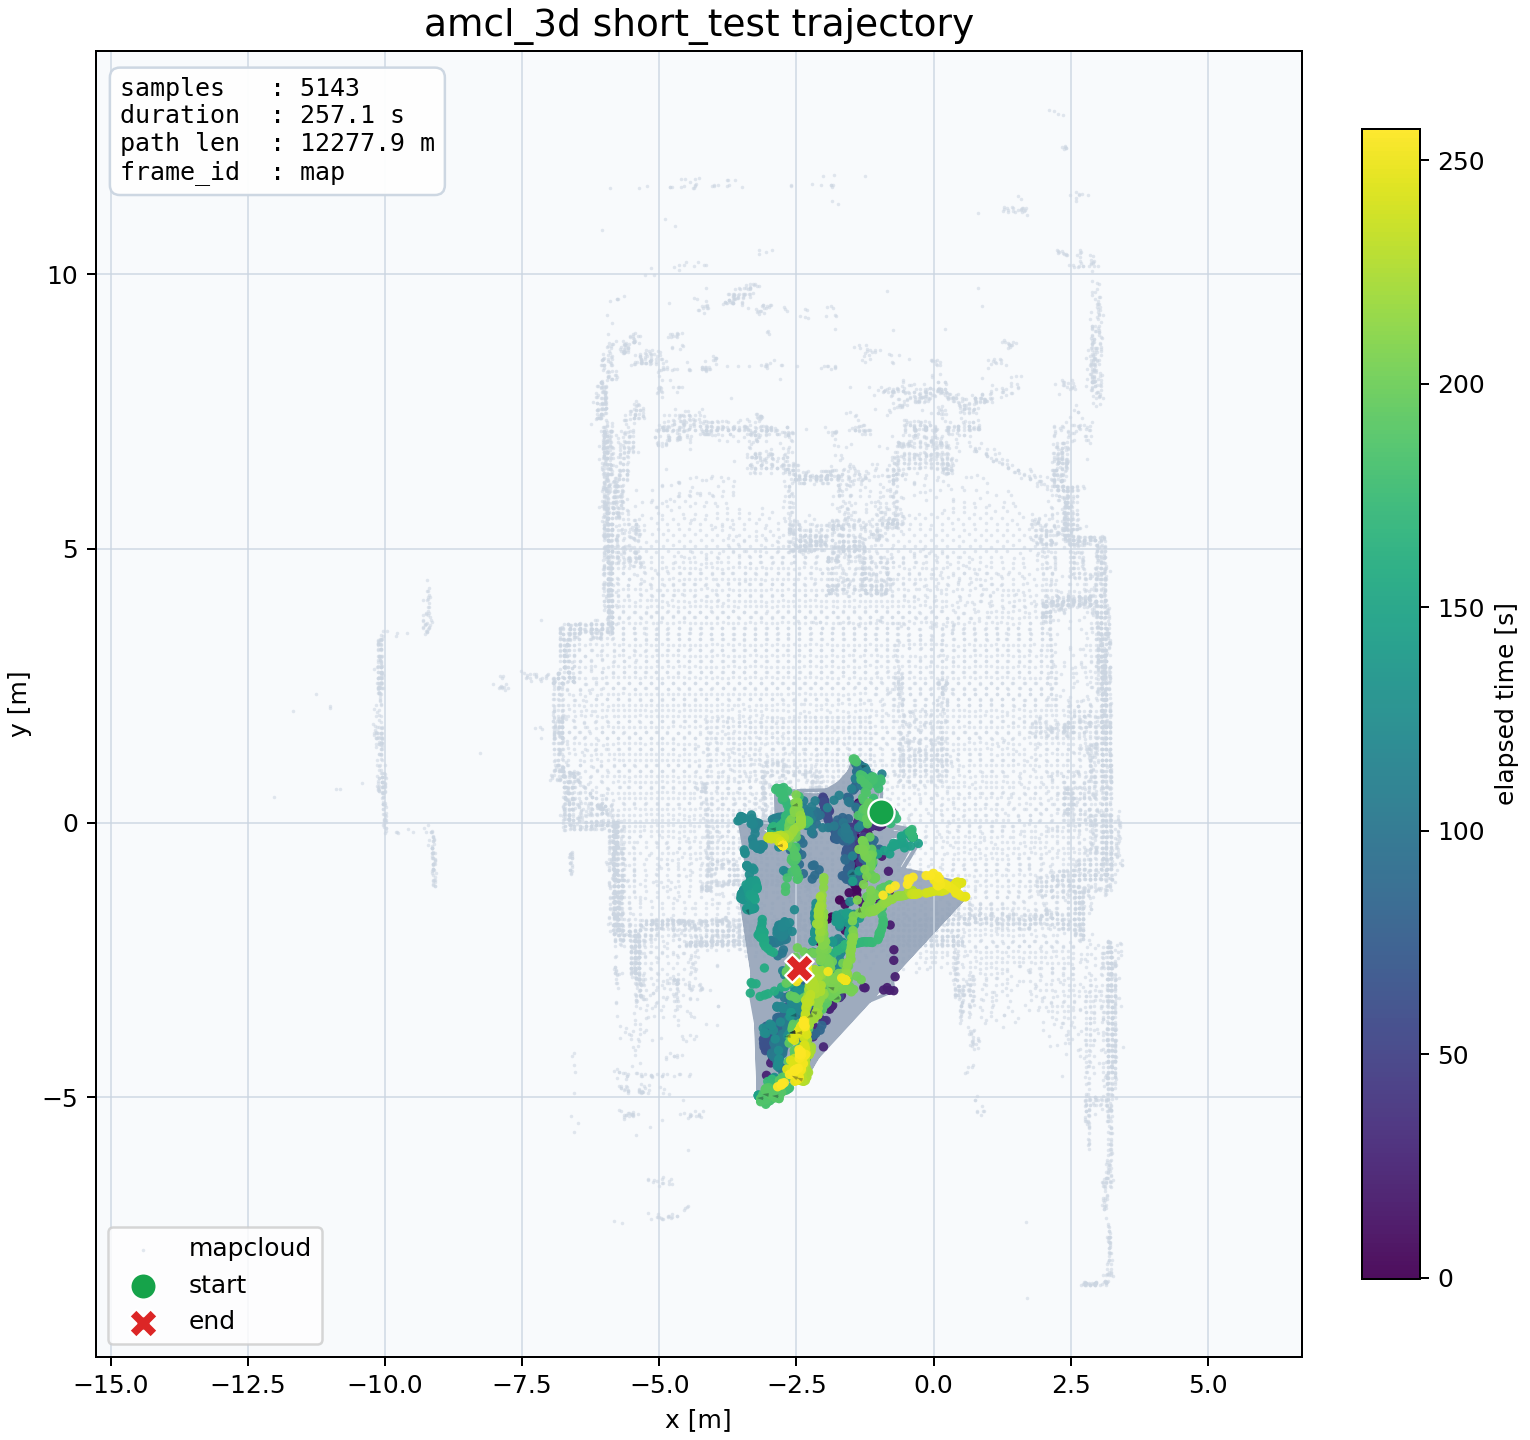
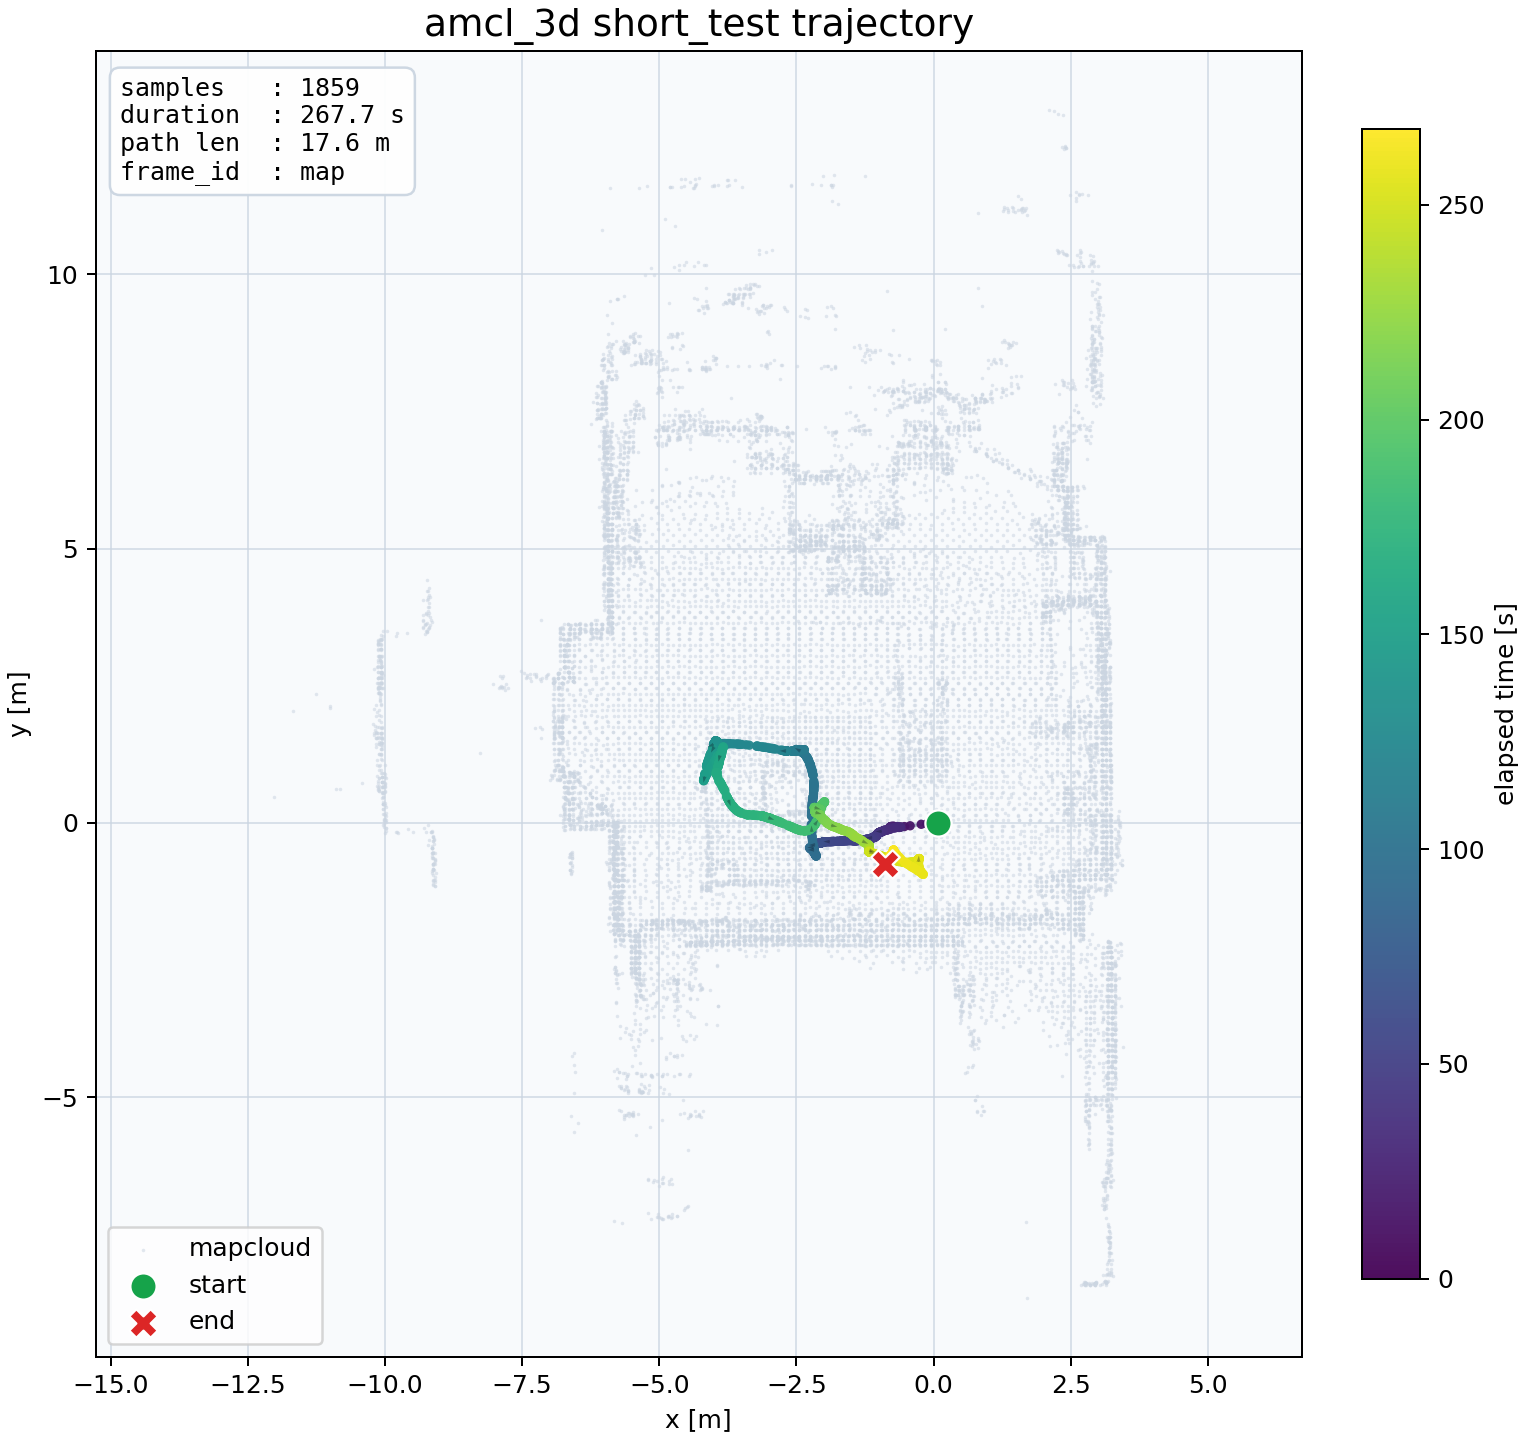
Stabilize short test localization

diff --git a/src/amcl_3d/src/node.cpp b/src/amcl_3d/src/node.cpp
@@ -58,6 +58,7 @@ rclcpp::Time stampOrZero(const builtin_interfaces::msg::Time & stamp, const rclc
   }
   return rclcpp::Time(stamp);
 }
+
 } // namespace
 
 class Amcl3dNode : public rclcpp::Node
@@ -85,7 +86,9 @@ private:
   std::string map_frame_id_;
   std::string base_link_frame_id_;
   std::string odom_frame_id_;
+  std::string pc2_frame_id_filter_;
   std::shared_ptr<FooPredictionModelNode> prediction_model_node_;
+  Time last_pc2_time_;
 };
 
 Amcl3dNode::Amcl3dNode() : rclcpp::Node("amcl_3d")
@@ -159,6 +162,7 @@ Amcl3dNode::Amcl3dNode() : rclcpp::Node("amcl_3d")
   map_frame_id_ = this->declare_parameter<std::string>("map_frame_id", "map");
   base_link_frame_id_ = this->declare_parameter<std::string>("base_link_frame_id", "base_link");
   odom_frame_id_ = this->declare_parameter<std::string>("odom_frame_id", "odom");
+  pc2_frame_id_filter_ = sanitizeFrameId(this->declare_parameter<std::string>("pc2_frame_id_filter", ""));
   const double publish_rate = this->declare_parameter<double>("publish_rate", 10.0);
   if (publish_rate <= 0.0)
   {
@@ -272,27 +276,36 @@ void Amcl3dNode::initialPoseCallback(
       covariance(4, 4) == 0.0 && covariance(5, 5) == 0.0)
   {
     RCLCPP_WARN(this->get_logger(), "covariance is all zeros; applying fallback defaults");
-    covariance(0, 0) = 0.5;
-    covariance(1, 1) = 0.5;
-    covariance(2, 2) = 0.5;
-    covariance(3, 3) = 0.1;
-    covariance(4, 4) = 0.1;
-    covariance(5, 5) = 0.1;
+    covariance(0, 0) = 0.1;
+    covariance(1, 1) = 0.1;
+    covariance(2, 2) = 0.1;
+    covariance(3, 3) = 0.05;
+    covariance(4, 4) = 0.05;
+    covariance(5, 5) = 0.05;
   }
 
   if (!amcl_->setInitialPose(position, quat, covariance))
   {
     RCLCPP_ERROR(this->get_logger(), "failed to set initial pose");
   }
+  last_pc2_time_ = Time();
 }
 
 void Amcl3dNode::pc2Callback(const sensor_msgs::msg::PointCloud2::ConstSharedPtr input_pc2_msg)
 {
   auto ros_pc2 = input_pc2_msg;
-  const Time measurement_time = stampOrNow(ros_pc2->header.stamp, *this);
-  amcl_->predict(prediction_model_node_->getPredictionModel(), Time::fromRclcppTime(this->get_clock()->now()));
-
   const std::string source_frame_id = sanitizeFrameId(ros_pc2->header.frame_id);
+  if (!pc2_frame_id_filter_.empty() && source_frame_id != pc2_frame_id_filter_)
+  {
+    return;
+  }
+
+  const Time measurement_time = stampOrNow(ros_pc2->header.stamp, *this);
+  if (!last_pc2_time_.isZero() && Time::getDiff(last_pc2_time_, measurement_time) <= 0.0)
+  {
+    return;
+  }
+
   if (source_frame_id != base_link_frame_id_)
   {
     try
@@ -315,13 +328,17 @@ void Amcl3dNode::pc2Callback(const sensor_msgs::msg::PointCloud2::ConstSharedPtr
 
   auto pc_measurement = std::make_shared<pcl::PointCloud<pcl::PointXYZ>>();
   pcl::fromROSMsg(*ros_pc2, *pc_measurement);
-  amcl_->measureLidar(measurement_time, pc_measurement);
+  amcl_->predict(prediction_model_node_->getPredictionModel(), measurement_time);
+  if (!amcl_->measureLidar(measurement_time, pc_measurement))
+  {
+    return;
+  }
+  last_pc2_time_ = measurement_time;
 }
 
 void Amcl3dNode::publishTimerCallback()
 {
   const rclcpp::Time current_time = this->get_clock()->now();
-  amcl_->predict(prediction_model_node_->getPredictionModel(), Time::fromRclcppTime(current_time));
 
   geometry_msgs::msg::PoseArray output_particle_msg;
   output_particle_msg.header.stamp = current_time;

diff --git a/src/amcl_3d/src/measurement_model/lidar_measurement_model.cpp b/src/amcl_3d/src/measurement_model/lidar_measurement_model.cpp
@@ -33,7 +33,7 @@ bool LidarMeasurementModel::measure(std::shared_ptr<const Particles> mesurement_
     v_log_likelihood.reserve(particles_ptr->size());
     const double max_squared_dist = max_dist_ * max_dist_; // [m^2]
     const double denominator = 2 * sigma_ * sigma_;
-    const double distance_penelty = 0.2;
+    const double sample_count = static_cast<double>(v_random_sample_index_.size());
     for (const auto &state : *mesurement_point_particles_ptr)
     {
         /*
@@ -71,10 +71,11 @@ bool LidarMeasurementModel::measure(std::shared_ptr<const Particles> mesurement_
                 squared_dist = max_squared_dist;
             }
             // first step : log likelihood += -(x-mu)^2
-            log_likelihood += -1.0 * squared_dist * distance_penelty;
+            log_likelihood += -1.0 * squared_dist;
         }
-        // second step : log likelihood *= 1.0/(2*sigma^2)
-        log_likelihood /= denominator; // denominator = (2*sigma^2)
+        // Average the per-point likelihood contribution so correlated lidar points do not
+        // make the filter overconfident and oscillatory.
+        log_likelihood /= denominator * sample_count;
         // std::cout << " log_likelihood: " << log_likelihood << std::endl;
 
         v_log_likelihood.push_back(log_likelihood);
@@ -98,11 +99,10 @@ bool LidarMeasurementModel::measure(std::shared_ptr<const Particles> mesurement_
         particles_ptr->at(i).weight *= std::exp(v_log_likelihood.at(i) - max_log_likelihood);
     }
     // calc raw weight average for augmented mcl
+    // Use per-point-averaged log-likelihood so values are in a reasonable range
     double weight_sum = 0.0;
     for (size_t i = 0; i < particles_ptr->size(); ++i)
     {
-        // std::cout << "std::exp(v_log_likelihood.at(" << i << "))"
-        //           << ", " << std::exp(v_log_likelihood.at(i)) << std::endl;
         weight_sum += std::exp(v_log_likelihood.at(i));
     }
     measurement_state.raw_weight_avg = weight_sum / (double)particles_ptr->size();
@@ -118,7 +118,7 @@ void LidarMeasurementModel::updateRandomSampleIndexVec(const size_t random_sampl
     {
         return;
     }
-    std::uniform_int_distribution<int> engine(0, limited_random_sample_num - 1);
+    std::uniform_int_distribution<int> engine(0, measurement_ptr_->size() - 1);
     // push measurement point index to vector for random sampling
     for (size_t i = 0; i < limited_random_sample_num; ++i)
     {

diff --git a/src/amcl_3d/src/particle_filter.cpp b/src/amcl_3d/src/particle_filter.cpp
@@ -1,5 +1,9 @@
 #include "amcl_3d/particle_filter.hpp"
 // #include <iostream>
+
+#include <cmath>
+#include <limits>
+
 namespace amcl_3d
 {
 ParticleFilter::ParticleFilter() : particles_ptr_(std::make_shared<Particles>()) {}
@@ -272,6 +276,10 @@ bool ParticleFilter::resample(std::shared_ptr<Particles> new_particles_ptr, cons
 State ParticleFilter::getMMSE()
 {
     State mmse_state;
+    if (particles_ptr_->empty())
+    {
+        return mmse_state;
+    }
     mmse_state.position.x() = 0.0;
     mmse_state.position.y() = 0.0;
     mmse_state.position.z() = 0.0;
@@ -279,6 +287,10 @@ State ParticleFilter::getMMSE()
     for (const auto &particle : *particles_ptr_)
     {
         weight_sum += particle.weight;
+    }
+    if (!std::isfinite(weight_sum) || weight_sum <= std::numeric_limits<double>::min())
+    {
+        return getMAP();
     }
     mmse_state.weight = weight_sum;
     for (const auto &particle : *particles_ptr_)
@@ -320,10 +332,15 @@ State ParticleFilter::getMMSE()
 State ParticleFilter::getMAP()
 {
     State map_state;
-    double max_weight = 0.0;
+    if (particles_ptr_->empty())
+    {
+        return map_state;
+    }
+    map_state = particles_ptr_->front();
+    double max_weight = map_state.weight;
     for (const auto &particle : *particles_ptr_)
     {
-        if (max_weight < particle.weight)
+        if (!std::isfinite(max_weight) || max_weight < particle.weight)
         {
             max_weight = particle.weight;
             map_state = particle;
@@ -380,10 +397,23 @@ void ParticleFilter::normalizeWeight()
 
 void ParticleFilter::normalizeWeight(std::shared_ptr<Particles> particles_ptr)
 {
+    if (particles_ptr == nullptr || particles_ptr->empty())
+    {
+        return;
+    }
     double weight_sum = 0.0;
     for (const auto &particle : *particles_ptr)
     {
         weight_sum += particle.weight;
+    }
+    if (!std::isfinite(weight_sum) || weight_sum <= std::numeric_limits<double>::min())
+    {
+        const double uniform_weight = 1.0 / static_cast<double>(particles_ptr->size());
+        for (auto &particle : *particles_ptr)
+        {
+            particle.weight = uniform_weight;
+        }
+        return;
     }
     for (auto &particle : *particles_ptr)
     {

diff --git a/reports/generate_trajectory.py b/reports/generate_trajectory.py
@@ -166,6 +166,29 @@ def trajectory_arrays(samples: list[PoseSample]) -> tuple[np.ndarray, np.ndarray
     )
 
 
+def angle_diff(a: float, b: float) -> float:
+    return math.atan2(math.sin(a - b), math.cos(a - b))
+
+
+def trim_leading_latched_outlier(samples: list[PoseSample]) -> list[PoseSample]:
+    if len(samples) < 4:
+        return samples
+
+    first = samples[0]
+    second = samples[1]
+    jump_xy = math.hypot(second.x - first.x, second.y - first.y)
+    jump_yaw = abs(angle_diff(second.yaw, first.yaw))
+
+    clustered_tail = samples[1:4]
+    tail_spread = max(math.hypot(sample.x - second.x, sample.y - second.y) for sample in clustered_tail)
+    tail_yaw_spread = max(abs(angle_diff(sample.yaw, second.yaw)) for sample in clustered_tail)
+
+    if (jump_xy > 0.05 or jump_yaw > 0.5) and tail_spread < 0.02 and tail_yaw_spread < 0.1:
+        return samples[1:]
+
+    return samples
+
+
 def compute_path_length(x: np.ndarray, y: np.ndarray) -> float:
     return float(np.sum(np.hypot(np.diff(x), np.diff(y))))
 
@@ -432,7 +455,7 @@ def main() -> int:
     if args.trajectory_output_png is None and args.compare_odom_output_png is None:
         raise ValueError("either --trajectory-output-png or --compare-odom-output-png must be set")
 
-    samples = parse_csv(args.input_csv)
+    samples = trim_leading_latched_outlier(parse_csv(args.input_csv))
 
     # Map loading: --map-pcd-file takes priority, then bag topic (unless --no-bag-map)
     map_points = None

diff --git a/src/amcl_3d/src/prediction_model/foo_prediction_model.cpp b/src/amcl_3d/src/prediction_model/foo_prediction_model.cpp
@@ -1,5 +1,4 @@
 #include "amcl_3d/prediction_model/foo_prediction_model.hpp"
-#include <iostream>
 namespace amcl_3d
 {
 XorShift128 FooPredictionModel::rand_;
@@ -30,9 +29,19 @@ bool FooPredictionModel::predict(State &state, const double dt_sec)
         omega_bias_noise(noise_param_.omega_bias_mean, noise_param_.omega_bias_std);
     double vel = vel_.x() * vel_scale_noise(rand_) + vel_bias_noise(rand_);
     double omega = omega_.z() * omega_scale_noise(rand_) + omega_bias_noise(rand_);
-    const double r = vel / omega;
-    local_position.x() = r * std::sin(omega * dt_sec);
-    local_position.y() = -r * std::cos(omega * dt_sec) + r;
+    constexpr double omega_eps = 1e-6;
+    if (std::abs(omega) < omega_eps)
+    {
+        // straight-line approximation when omega is near zero
+        local_position.x() = vel * dt_sec;
+        local_position.y() = 0.0;
+    }
+    else
+    {
+        const double r = vel / omega;
+        local_position.x() = r * std::sin(omega * dt_sec);
+        local_position.y() = -r * std::cos(omega * dt_sec) + r;
+    }
     local_position.z() = 0.0;
     local_quat = Quat(Eigen::AngleAxisd(0.0, Eigen::Vector3d::UnitX())                // roll
                       * Eigen::AngleAxisd(0.0, Eigen::Vector3d::UnitY())              // pitch

diff --git a/src/amcl_3d/launch/amcl_3d_rosbag.launch.py b/src/amcl_3d/launch/amcl_3d_rosbag.launch.py
@@ -68,6 +68,7 @@ def generate_launch_description():
             DeclareLaunchArgument("map_frame_id", default_value="map"),
             DeclareLaunchArgument("base_link_frame_id", default_value="base_link"),
             DeclareLaunchArgument("odom_frame_id", default_value="odom"),
+            DeclareLaunchArgument("pc2_frame_id_filter", default_value=""),
             DeclareLaunchArgument("publish_rate", default_value="10.0"),
             DeclareLaunchArgument("input_map", default_value="/mapcloud"),
             DeclareLaunchArgument("input_odom", default_value="/odom"),
@@ -95,6 +96,7 @@ def generate_launch_description():
                     "map_frame_id": LaunchConfiguration("map_frame_id"),
                     "base_link_frame_id": LaunchConfiguration("base_link_frame_id"),
                     "odom_frame_id": LaunchConfiguration("odom_frame_id"),
+                    "pc2_frame_id_filter": LaunchConfiguration("pc2_frame_id_filter"),
                     "publish_rate": LaunchConfiguration("publish_rate"),
                     "input_map": LaunchConfiguration("input_map"),
                     "input_odom": LaunchConfiguration("input_odom"),

diff --git a/src/amcl_3d/launch/amcl_3d.launch.py b/src/amcl_3d/launch/amcl_3d.launch.py
@@ -16,6 +16,7 @@ def generate_launch_description():
             DeclareLaunchArgument("map_frame_id", default_value="map"),
             DeclareLaunchArgument("base_link_frame_id", default_value="base_link"),
             DeclareLaunchArgument("odom_frame_id", default_value="odom"),
+            DeclareLaunchArgument("pc2_frame_id_filter", default_value=""),
             DeclareLaunchArgument("publish_rate", default_value="10.0"),
             DeclareLaunchArgument("input_map", default_value="map"),
             DeclareLaunchArgument("input_odom", default_value="odom"),
@@ -34,6 +35,7 @@ def generate_launch_description():
                         "map_frame_id": LaunchConfiguration("map_frame_id"),
                         "base_link_frame_id": LaunchConfiguration("base_link_frame_id"),
                         "odom_frame_id": LaunchConfiguration("odom_frame_id"),
+                        "pc2_frame_id_filter": LaunchConfiguration("pc2_frame_id_filter"),
                         "publish_rate": LaunchConfiguration("publish_rate"),
                     },
                 ],

diff --git a/src/amcl_3d/src/prediction_model/foo_prediction_model_node.cpp b/src/amcl_3d/src/prediction_model/foo_prediction_model_node.cpp
@@ -38,7 +38,6 @@ void FooPredictionModelNode::odomCallback(const nav_msgs::msg::Odometry::ConstSh
     omega = 0.5 * (omega + prediction_model_->getAngularVelocity());
     prediction_model_->measumentLinearVelocity(vel);
     prediction_model_->measumentAngularVelocity(omega);
-    amcl_->predict(prediction_model_, Time::fromRclcppTime(node_.get_clock()->now()));
 }
 
 void FooPredictionModelNode::imuCallback(const sensor_msgs::msg::Imu::ConstSharedPtr input_imu_msg)

diff --git a/src/amcl_3d/include/amcl_3d/type.hpp b/src/amcl_3d/include/amcl_3d/type.hpp
@@ -14,14 +14,14 @@ namespace amcl_3d
 {
 struct State
 {
-    Position position; // x,y,z
-    Quat quat;         // x,y,z,w
-    double weight;
+    Position position = Position::Zero(); // x,y,z
+    Quat quat = Quat::Identity();         // x,y,z,w
+    double weight = 0.0;
 };
 
 struct MeasurementState
 {
-    double raw_weight_avg;
+    double raw_weight_avg = 0.0;
 };
 
 struct AugmentedMCLParam
